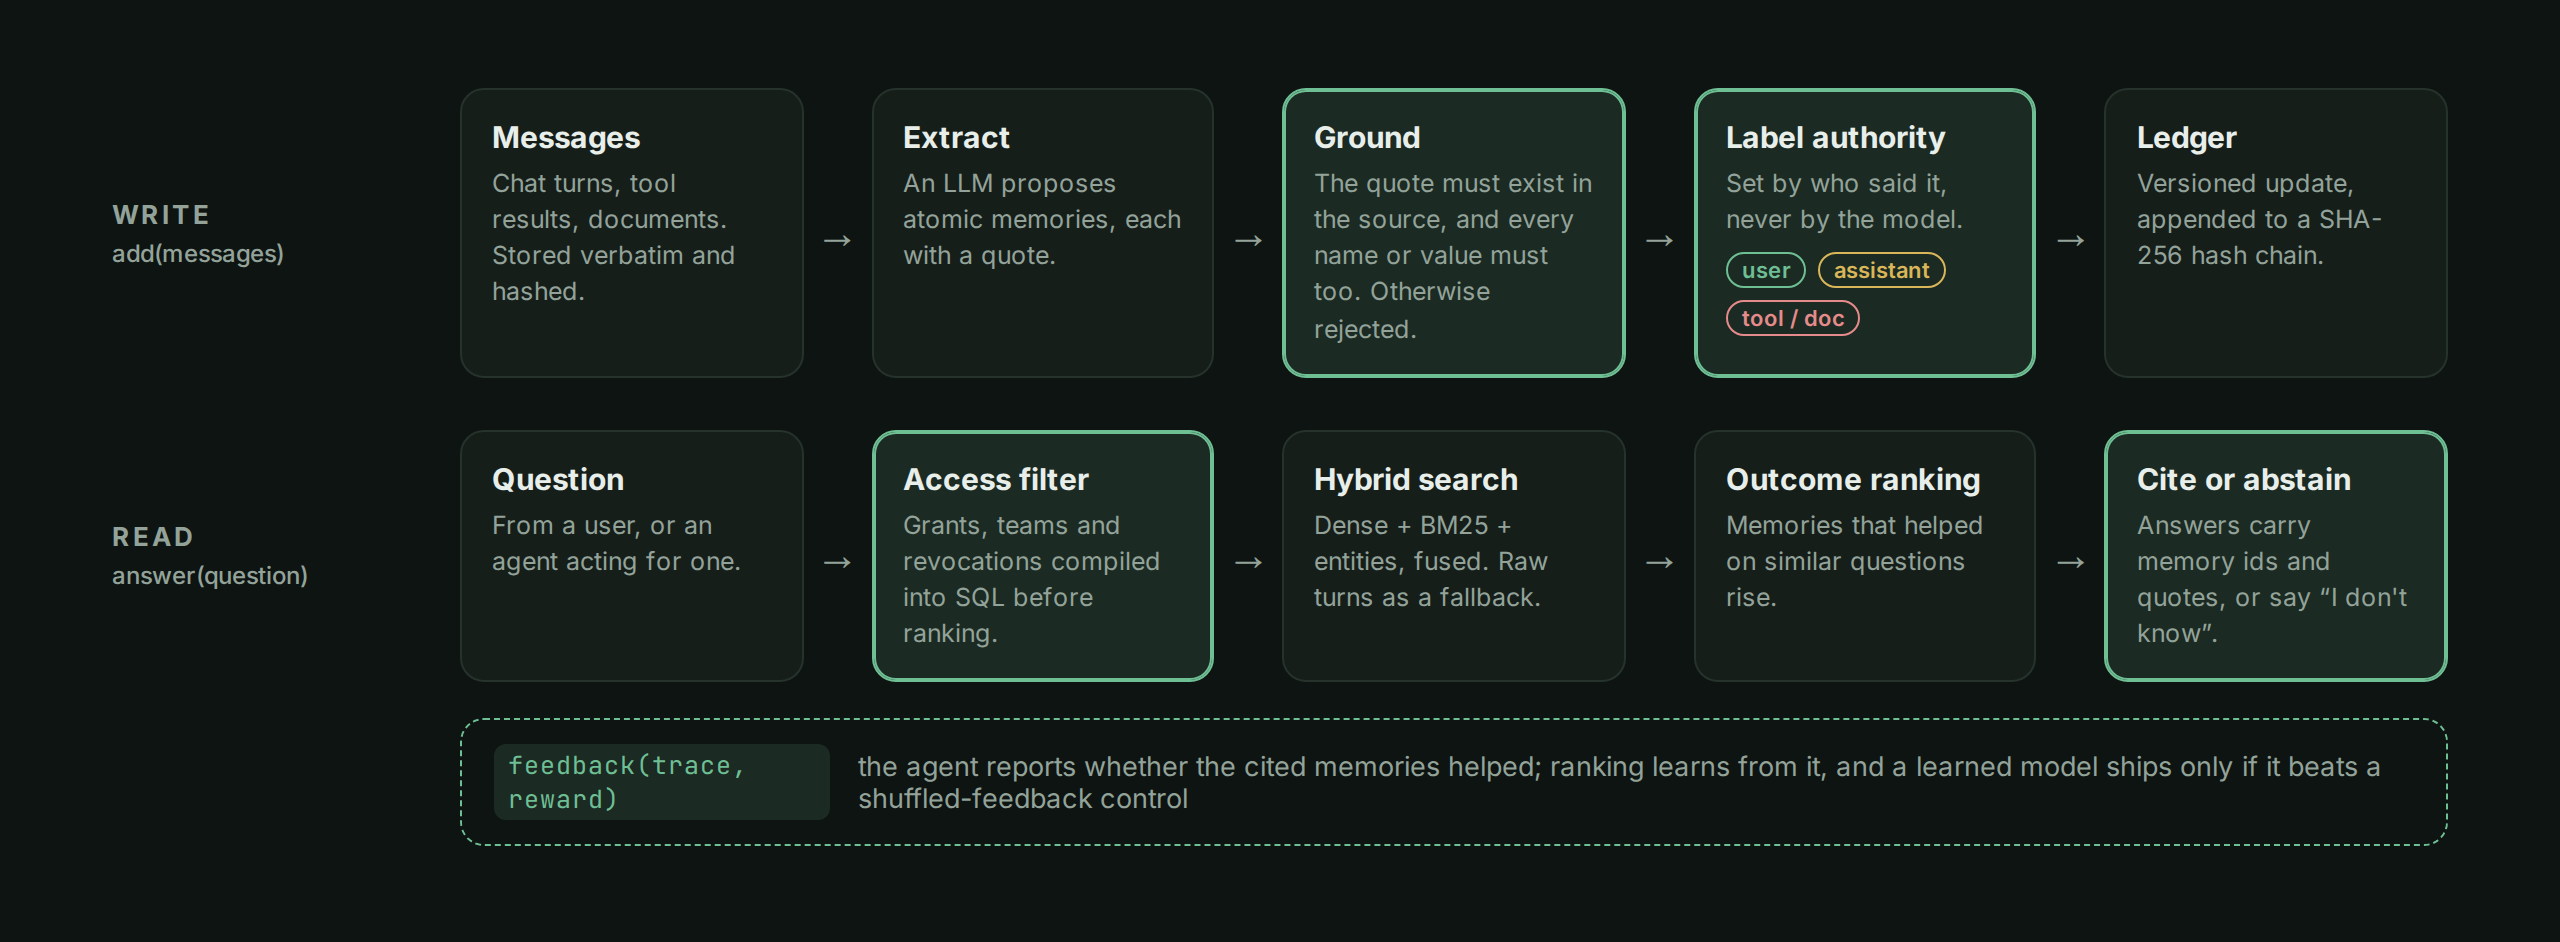
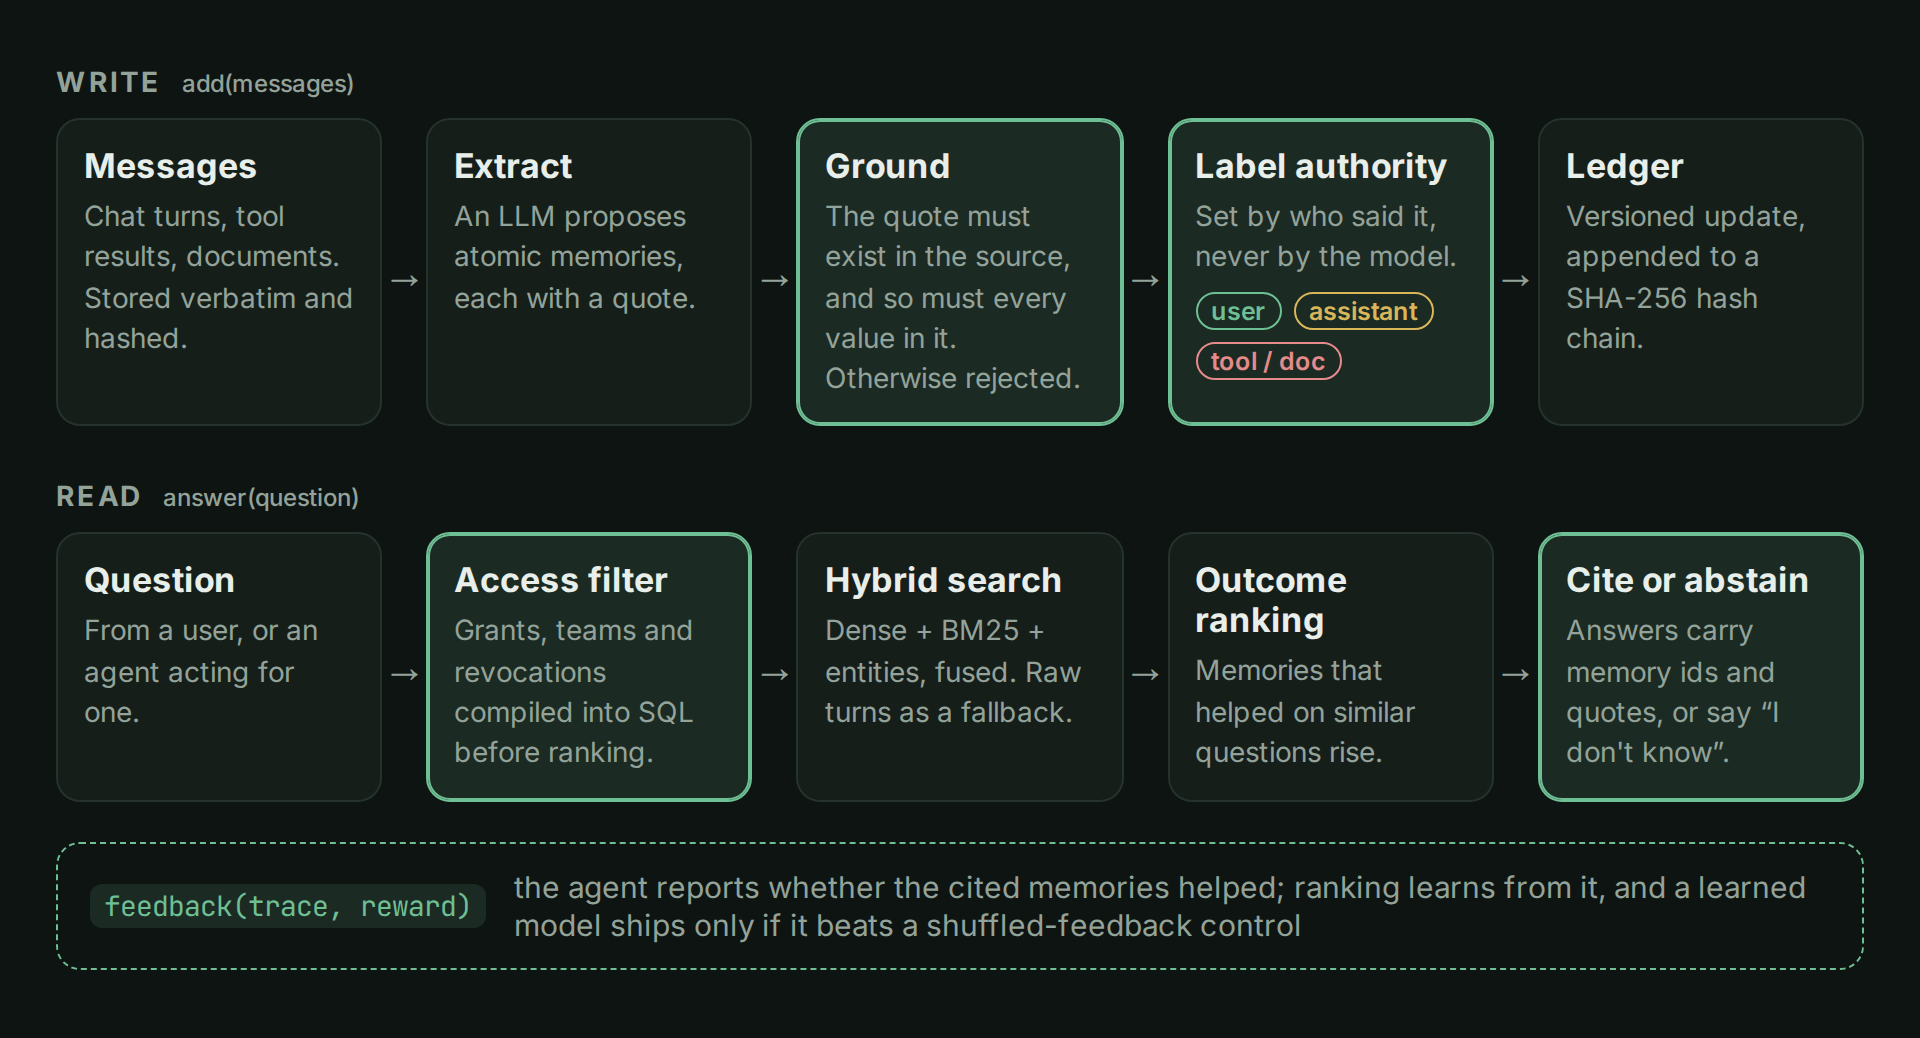
README: larger how-it-works diagram for GitHub's column width; table header

diff --git a/README.md b/README.md
@@ -153,7 +153,7 @@ python -m benchmarks.guarantees --systems veramem,mem0   # reproduce the table
 
 ## Works with your stack
 
-| | |
+| Use it from | How |
 |---|---|
 | **MCP** | Claude Desktop, Claude Code, Cursor, VS Code. `veramem mcp-config` prints the config to paste. |
 | **Python** | `Memory` and `AsyncMemory` |
